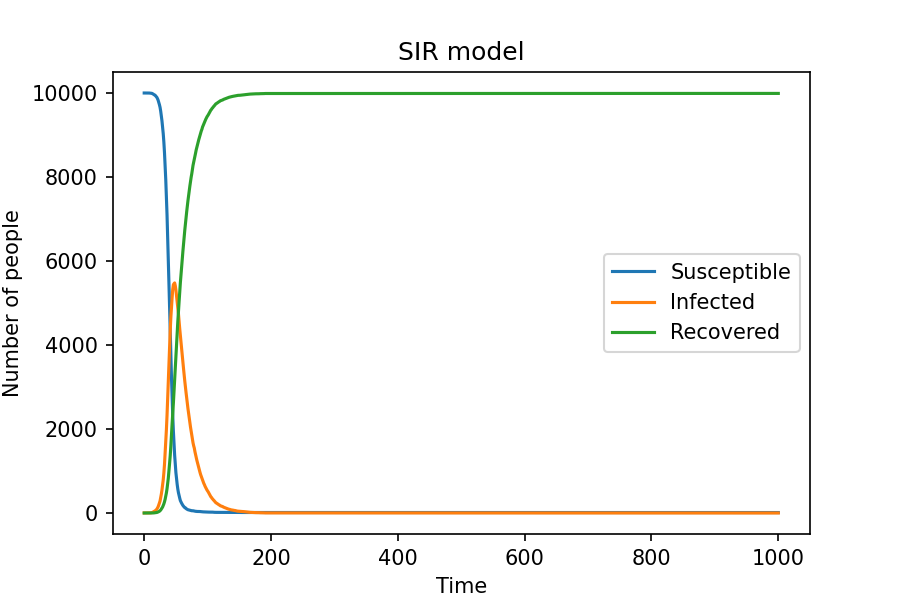
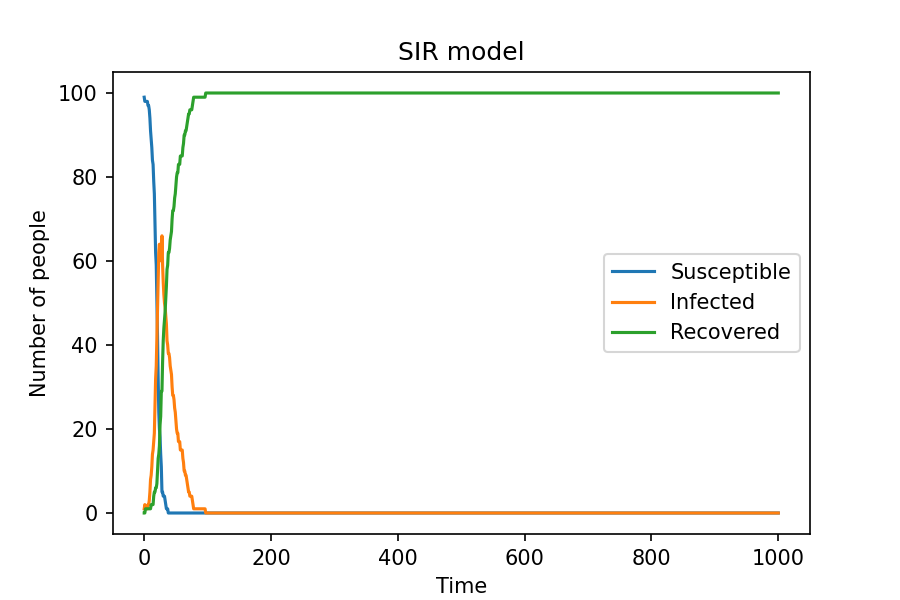
add Reflection

diff --git a/Practical9/SIR.py b/Practical9/SIR.py
@@ -1,14 +1,14 @@
 import numpy as np
 import matplotlib.pyplot as plt
 #Define basic variables
-Susceptible=9999
+Susceptible=99 #use smaller population to show more obvious probabilistic difference
 Infected=1
 Recovered=0
-N=10000
+N=100
 beta=0.3
 gamma=0.05
 #create arrays for each variables to track how they evolve over time
-Susceptible_list=[9999]
+Susceptible_list=[99]
 Infected_list=[1]
 Recovered_list=[0]
 #Set up the loop
